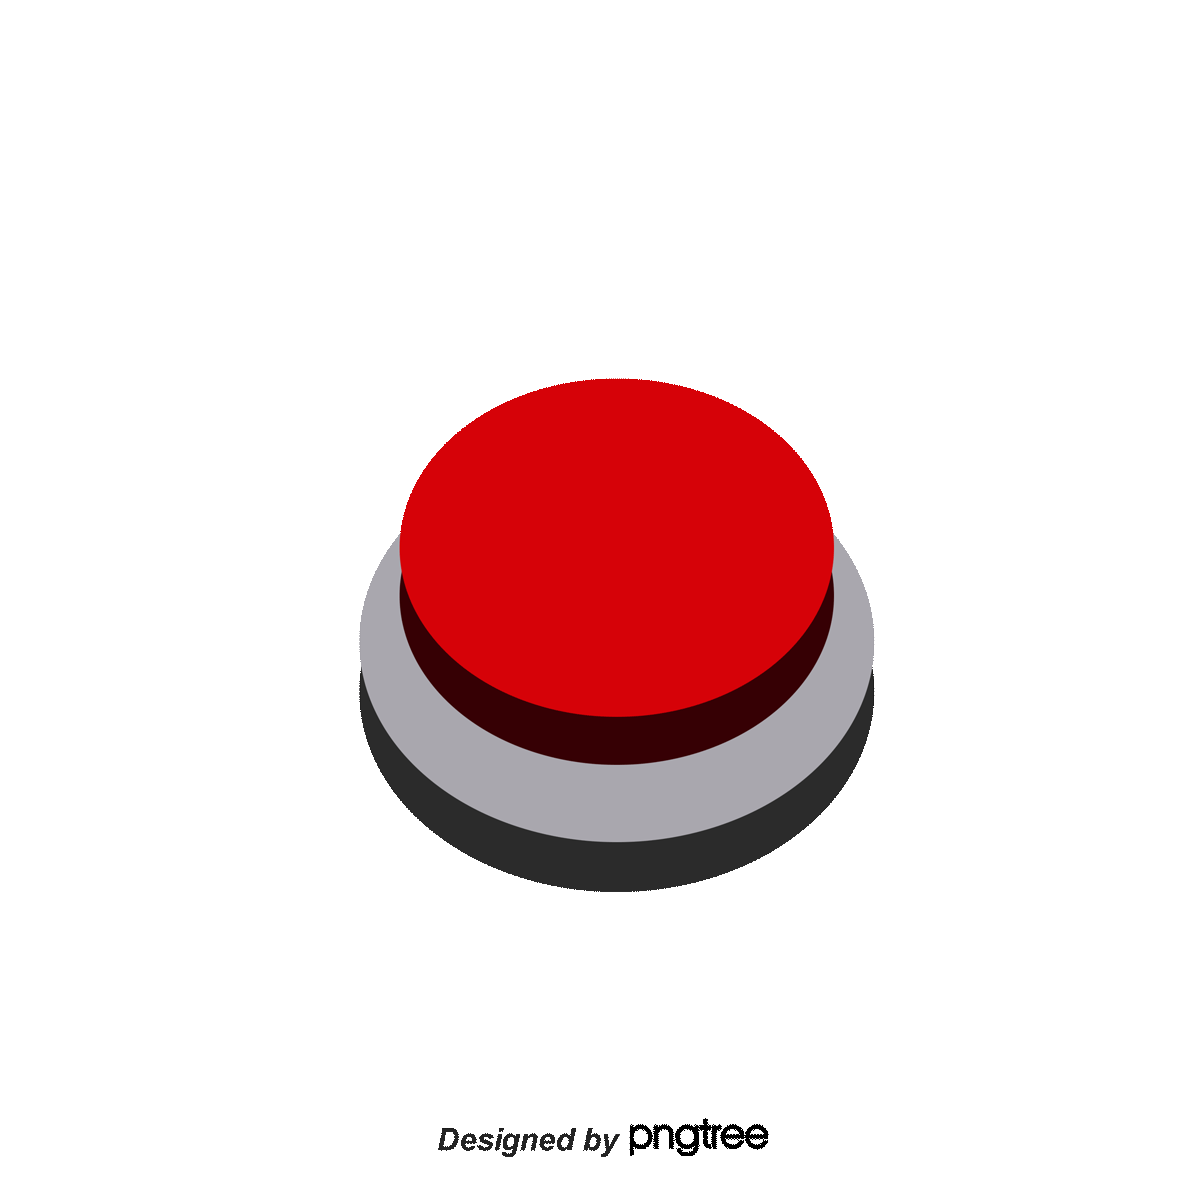
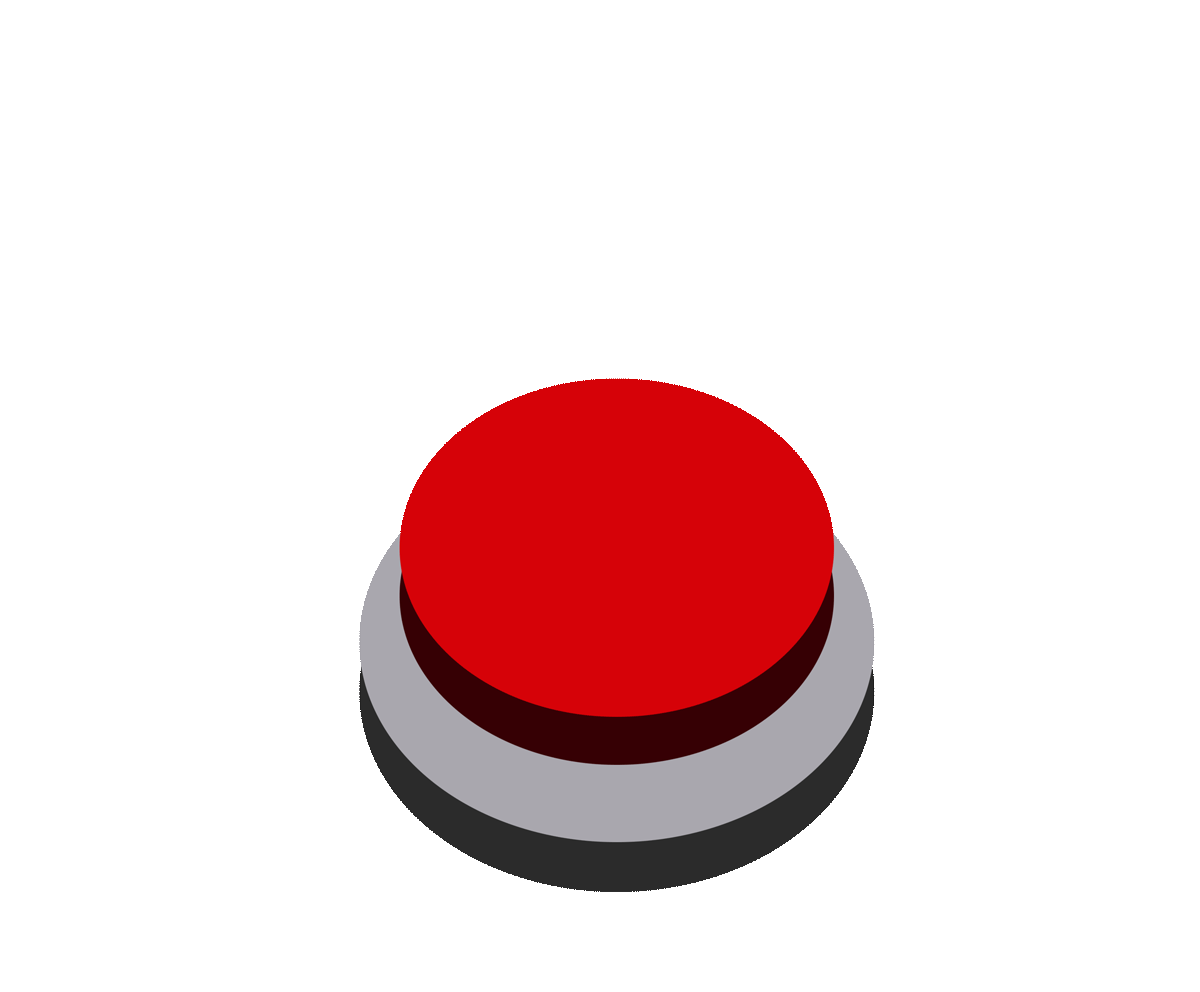
play added

Changed region(s): [[0.2775, 0.3125, 0.74, 0.9062], [0.37, 0.9375, 0.6475, 0.9688]]

diff --git a/README.md b/README.md
@@ -24,14 +24,28 @@ It’s simple:
 
 ---
 
-## 🚀 Live Demo
+## 🚀 **Live Demo**
 
-Try the burger builder right now in your browser:  
-[🍔 **Live Demo on GitHub Pages**](https://yaldakhoshpey.github.io/Burger_Builder/)
+Jump in and build your dream burger right now! 🍔✨  
+Experience the fun with animated clicks and tasty ingredients.
 
-<p align="center">
-  <a href="https://yaldakhoshpey.github.io/Burger_Builder/">
-    <img src="images/play_button.png" alt="Play Now" width="150" />
+<p align="center" style="margin-top: 40px;">
+  <a href="https://yaldakhoshpey.github.io/Burger_Builder/" 
+     style="display: inline-flex; 
+            align-items: center; 
+            justify-content: center; 
+            background: linear-gradient(135deg, #ff7e5f, #feb47b);
+            border-radius: 24px; 
+            padding: 28px 70px; 
+            text-decoration: none; 
+            font-family: 'Segoe UI', Tahoma, Geneva, Verdana, sans-serif; 
+            font-weight: 900; 
+            font-size: 2.8rem; 
+            color: white; 
+            box-shadow: 0 8px 20px rgba(255, 126, 95, 0.5); 
+            user-select: none;">
+    <img src="images/play_button.png" alt="Play Button" width="72" height="72" style="margin-right: 24px; filter: drop-shadow(2px 2px 3px rgba(0,0,0,0.3));" />
+    PLAY NOW
   </a>
 </p>
 
